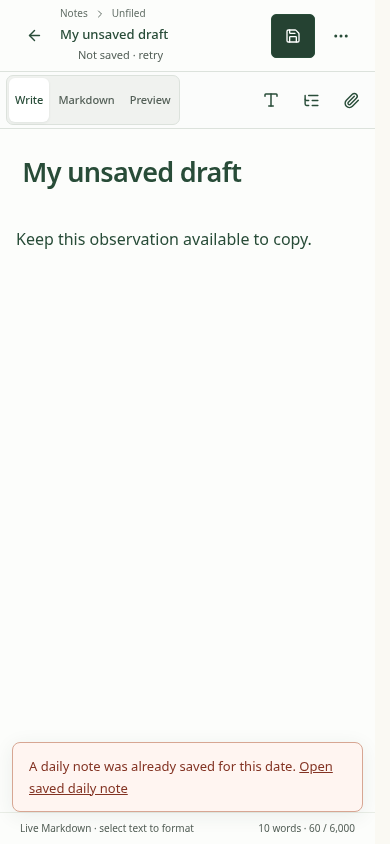
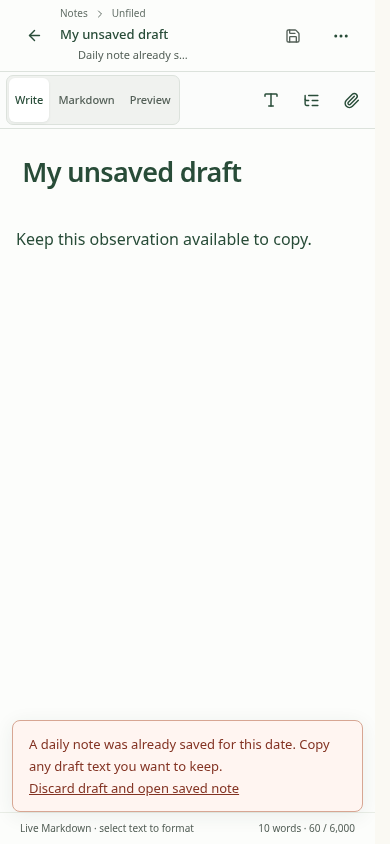
fix(workspace): preserve daily drafts through refresh and replay

diff --git a/packages/website/src/components/dashboard/memory-editor.tsx b/packages/website/src/components/dashboard/memory-editor.tsx
@@ -17,7 +17,7 @@ import {
   Save,
   Download,
 } from "lucide-react";
-import Link from "next/link";
+import { useRouter } from "next/navigation";
 import type { DailyNote, Memory } from "@lib/shared/contracts";
 import { sourceEditsBetween } from "@lib/shared/document-edits";
 import {
@@ -141,10 +141,13 @@ export function MemoryEditor({
         ?.focus({ preventScroll: true });
   }, []);
   const [preview, setPreview] = useState(initialPreview);
-  const [dailyConflictId, setDailyConflictId] = useState<string>();
+  const router = useRouter();
   const api = useWorkspaceApi();
   const [draft] = useState(() =>
     draftKey ? drafts?.get(draftKey) : undefined,
+  );
+  const [dailyConflictId, setDailyConflictId] = useState(
+    draft?.dailyConflictId,
   );
   const [content, setContent] = useState(
     draft?.content ?? memory?.content ?? initialContent,
@@ -279,6 +282,7 @@ export function MemoryEditor({
         saving,
         submitted: submitted.current,
         error,
+        dailyConflictId,
       });
     else drafts.delete(key);
   }, [
@@ -294,6 +298,7 @@ export function MemoryEditor({
     projectId,
     saving,
     error,
+    dailyConflictId,
   ]);
   const settleSave = useEffectEvent(
     async (
@@ -384,8 +389,7 @@ export function MemoryEditor({
       } catch (e) {
         const retained = draftKey ? drafts?.get(draftKey) : undefined;
         if (retained?.saving === request) retained.error = errorMessage(e);
-        if (!active()) return;
-        setError(errorMessage(e));
+        if (active()) setError(errorMessage(e));
         if (
           e instanceof DashboardApiError &&
           e.code === "daily_note_exists" &&
@@ -395,12 +399,17 @@ export function MemoryEditor({
             const existing = await api<DailyNote>(
               `/memories/daily/${dailyDate}`,
             );
-            if (active() && existing.state === "saved")
-              setDailyConflictId(existing.id);
+            if (existing.state === "saved") {
+              const current = draftKey ? drafts?.get(draftKey) : undefined;
+              if (current?.saving === request)
+                current.dailyConflictId = existing.id;
+              if (active()) setDailyConflictId(existing.id);
+            }
           } catch {
             // The original draft and error remain visible if lookup fails.
           }
         }
+        if (!active()) return;
         if (
           e instanceof DashboardApiError &&
           e.code === "version_conflict" &&
@@ -454,6 +463,7 @@ export function MemoryEditor({
   }, [dirty]);
   const saveDisabled =
     mediaBusy ||
+    !!dailyConflictId ||
     busy ||
     !!latest ||
     !content.trim() ||
@@ -465,7 +475,7 @@ export function MemoryEditor({
   function persist(automatic = false) {
     if (!editSession.current || !automatic)
       editSession.current = crypto.randomUUID();
-    if (mediaBusy) return;
+    if (mediaBusy || dailyConflictId) return;
     // Retrying an uncertain save must use its original payload even if newer
     // local edits are empty or exceed the save limit.
     if (saveDisabled && !(pending.current?.input && !busy && !latest)) return;
@@ -597,15 +607,17 @@ export function MemoryEditor({
         disabled: saveDisabled,
         disabledReason: busy
           ? "Saving…"
-          : latest
-            ? "Review the newer version first"
-            : !content.trim()
-              ? "Write something first"
-              : content.length > 6000
-                ? "Over the save limit"
-                : !dirty
-                  ? "All changes saved"
-                  : undefined,
+          : dailyConflictId
+            ? "This date already has a saved note"
+            : latest
+              ? "Review the newer version first"
+              : !content.trim()
+                ? "Write something first"
+                : content.length > 6000
+                  ? "Over the save limit"
+                  : !dirty
+                    ? "All changes saved"
+                    : undefined,
       },
       {
         ...commandDefinitions["note-focus"],
@@ -622,19 +634,21 @@ export function MemoryEditor({
   );
   const saveStatus = busy
     ? "Saving…"
-    : dirty
-      ? error
-        ? "Not saved · retry"
-        : content.length > 6000
-          ? "Over save limit"
-          : !content.trim()
-            ? "Empty draft"
-            : autoSave
-              ? "Waiting to save…"
-              : "Unsaved changes"
-      : base
-        ? `Saved${base.status === "archived" ? " · Archived" : ""}`
-        : "Start a note";
+    : dailyConflictId
+      ? "Daily note already saved"
+      : dirty
+        ? error
+          ? "Not saved · retry"
+          : content.length > 6000
+            ? "Over save limit"
+            : !content.trim()
+              ? "Empty draft"
+              : autoSave
+                ? "Waiting to save…"
+                : "Unsaved changes"
+        : base
+          ? `Saved${base.status === "archived" ? " · Archived" : ""}`
+          : "Start a note";
   const saveButton = (
     <Button
       type="submit"
@@ -905,7 +919,7 @@ export function MemoryEditor({
               onChange={(value, immediate) => {
                 setContent(value);
                 if (immediate) saveImmediately.current = true;
-                if (!latest) setError("");
+                if (!latest && !dailyConflictId) setError("");
               }}
               disabled={mediaBusy || (busy && !autoSave)}
               fullPage={pageView}
@@ -1034,12 +1048,18 @@ export function MemoryEditor({
               {dailyConflictId && (
                 <>
                   {" "}
-                  <Link
+                  <button
+                    type="button"
                     className="underline"
-                    href={`/app/memories/${encodeURIComponent(dailyConflictId)}?mode=edit&from=journal`}
+                    onClick={() => {
+                      if (draftKey) drafts?.delete(draftKey);
+                      router.push(
+                        `/app/memories/${encodeURIComponent(dailyConflictId)}?mode=edit&from=journal`,
+                      );
+                    }}
                   >
-                    Open saved daily note
-                  </Link>
+                    Discard draft and open saved note
+                  </button>
                 </>
               )}
             </p>

diff --git a/packages/website/tests/daily-note.spec.ts b/packages/website/tests/daily-note.spec.ts
@@ -20,6 +20,87 @@ const fromNotes = async (page: Page) => {
 
 test.use({ timezoneId: "America/Los_Angeles", locale: "en-US" });
 
+test("the workspace refresh cannot replace a conflicting draft", async ({
+  page,
+}) => {
+  await page.clock.install({ time: beforeMidnight });
+  const state = await fixture(page, []);
+  await page.goto(`${base}/app/notes/new?from=journal&date=${day}`);
+  await expect(editor(page)).toBeVisible();
+  state.dailyNotes.set(day, note.id);
+  state.records.set(note.id, note);
+  await editor(page).fill("Text to keep through refresh");
+  await save(page).click();
+  const open = page.getByRole("button", {
+    name: "Discard draft and open saved note",
+  });
+  await expect(open).toBeVisible();
+  const refresh = page.waitForResponse(
+    (r) => r.url().includes("/api/grove/projects") && r.ok(),
+  );
+  await page.clock.fastForward(61_000);
+  await refresh;
+  await expect(open).toBeVisible();
+  expect(
+    state.calls.filter(
+      ({ path, body }) => path === `/memories/daily/${day}` && !body,
+    ),
+  ).toHaveLength(2);
+  await expect(editor(page)).toHaveText("Text to keep through refresh");
+  await page
+    .getByRole("navigation", { name: "Workspace" })
+    .getByRole("link", { name: "Notes", exact: true })
+    .click();
+  // The workspace refresh crossed midnight: revisit the original date.
+  await page.goBack();
+  await expect(editor(page)).toHaveText("Text to keep through refresh");
+  await expect(open).toBeVisible();
+});
+
+test("reopening an interrupted first save recovers later typing and replays its receipt", async ({
+  page,
+}) => {
+  await page.clock.setFixedTime(beforeMidnight);
+  const state = await fixture(page, []);
+  const attempts: unknown[] = [];
+  const committed = { ...note, content: "First draft", projectId: null };
+  await page.route(`**/api/grove/memories/daily/${day}`, async (route) => {
+    if (route.request().method() !== "POST") return route.fallback();
+    attempts.push(route.request().postDataJSON());
+    if (attempts.length === 1) {
+      state.dailyNotes.set(day, committed.id);
+      state.records.set(committed.id, committed);
+      return route.abort();
+    }
+    return route.fulfill({ json: { success: true, data: committed } });
+  });
+  await page.goto(`${base}/app`);
+  await fromNotes(page);
+  await editor(page).fill(committed.content);
+  await save(page).click();
+  await expect(page.locator(".note-save-error")).toBeVisible();
+  await editor(page).fill("Later typing after the interrupted save");
+  await page
+    .getByRole("navigation", { name: "Workspace" })
+    .getByRole("link", { name: "Notes", exact: true })
+    .click();
+  await fromNotes(page);
+  await expect(editor(page)).toHaveText(
+    "Later typing after the interrupted save",
+  );
+  await save(page).click();
+  await expect(page).toHaveURL(
+    `${base}/app/memories/${note.id}?mode=edit&from=journal`,
+  );
+  await expect(page.locator(".note-save-status")).toHaveText("Saved");
+  expect(attempts).toHaveLength(2);
+  expect(attempts[1]).toEqual(attempts[0]);
+  expect(state.records.get(note.id)?.content).toBe(
+    "Later typing after the interrupted save",
+  );
+  expect(state.records.size).toBe(1);
+});
+
 test("a local date is pinned through midnight, then the notebook and Notes reopen the saved id", async ({
   page,
 }, info) => {
@@ -103,7 +184,9 @@ test("a losing first save holds its draft and opens the winner only on request",
   state.dailyNotes.set(day, winner.id);
   state.records.set(winner.id, winner);
   await save(page).click();
-  const open = page.getByRole("link", { name: "Open saved daily note" });
+  const open = page.getByRole("button", {
+    name: "Discard draft and open saved note",
+  });
   await expect(open).toBeVisible();
   await expect(editor(page)).toContainText("available to copy");
   expect(state.records.size).toBe(1);
@@ -122,6 +205,11 @@ test("a losing first save holds its draft and opens the winner only on request",
     contentType: "image/png",
   });
   await open.click();
+  await expect(page).toHaveURL(
+    `${base}/app/memories/${winner.id}?mode=edit&from=journal`,
+  );
+  await expect(editor(page)).toContainText("Saved from another device.");
+  await page.goBack();
   await expect(page).toHaveURL(
     `${base}/app/memories/${winner.id}?mode=edit&from=journal`,
   );

diff --git a/packages/website/src/components/dashboard/note-document.tsx b/packages/website/src/components/dashboard/note-document.tsx
@@ -8,6 +8,7 @@ import { localDateSchema, type DailyNote } from "@lib/shared/contracts";
 import { errorMessage } from "@/lib/dashboard-api";
 import { RecoveryState } from "@/components/recovery-state";
 import { MemoryInspector } from "./memory-inspector";
+import { useNoteDrafts } from "./note-drafts";
 import { useNotebooks } from "./notebooks-provider";
 import { LoadError } from "./load-error";
 import { DocumentSkeleton } from "./workspace-opening";
@@ -36,6 +37,7 @@ export function NoteDocument({ children }: { children: ReactNode }) {
   const query = useSearchParams();
   const router = useRouter();
   const api = useWorkspaceApi();
+  const drafts = useNoteDrafts();
   const { projects, loading, error, reload } = useNotebooks();
   const creating = path === "/app/notes/new";
   const notebook = query.get("notebook") || undefined;
@@ -67,15 +69,19 @@ export function NoteDocument({ children }: { children: ReactNode }) {
     params.set("date", localCalendarDate());
     router.replace(`/app/notes/new?${params}`, { scroll: false });
   }, [daily, day, notebook, router]);
-  const lookup = useQuery({
+  const lookup = useQuery<DailyNote>({
     queryKey: ["daily-note-opening", day, session.key],
     queryFn: ({ signal }) =>
       api<DailyNote>(`/memories/daily/${day}`, undefined, undefined, signal),
     enabled: !!day,
+    // Reattach the editor to its retained values and original save promise or
+    // operation ID before consulting a server that may already have committed.
+    initialData: () =>
+      day && drafts?.has(route) ? { state: "empty" } : undefined,
     gcTime: 0,
     // The result is a snapshot for this opening. Never replace a mounted draft
     // with another tab's save; its create operation will report the conflict.
-    staleTime: Infinity,
+    staleTime: "static",
     retry: false,
   });
   const savedId = lookup.data?.state === "saved" ? lookup.data.id : undefined;

diff --git a/lib/memory/src/index.ts b/lib/memory/src/index.ts
@@ -1034,7 +1034,7 @@ export class MemoryService {
               if (daily.state === "saved")
                 throw new GroveError(
                   "daily_note_exists",
-                  "A daily note was already saved for this date. Copy any text you want to keep, then open the saved note from Today’s note again.",
+                  "A daily note was already saved for this date. Copy any draft text you want to keep.",
                   409,
                 );
               if (daily.state === "deleted")

diff --git a/tests/src/daily-note.test.ts b/tests/src/daily-note.test.ts
@@ -156,6 +156,10 @@ test("daily identity survives filing, renaming, archive and restore; deletion ne
     }),
   );
   assert.equal(archived.status, "archived");
+  const replay = await data<Memory>(await call(path, first));
+  assert.equal(replay.id, saved.id);
+  assert.equal(replay.version, archived.version);
+  assert.equal(replay.status, "archived");
   assert.deepEqual(await data(await call(path)), {
     state: "saved",
     id: saved.id,

diff --git a/packages/website/tests/fixtures/workspace-fixture.ts b/packages/website/tests/fixtures/workspace-fixture.ts
@@ -523,7 +523,7 @@ export async function fixture(
             error: {
               code: exists ? "daily_note_exists" : "daily_note_deleted",
               message: exists
-                ? "A daily note was already saved for this date."
+                ? "A daily note was already saved for this date. Copy any draft text you want to keep."
                 : "The daily note for this date was deleted.",
             },
           },

diff --git a/packages/website/src/components/dashboard/note-drafts.tsx b/packages/website/src/components/dashboard/note-drafts.tsx
@@ -28,6 +28,7 @@ export type NoteDraft = NoteValues & {
   saving?: Promise<Memory>;
   submitted?: NoteValues;
   error?: string;
+  dailyConflictId?: string;
 };
 
 class NoteDraftStore extends Map<string, NoteDraft> {

diff --git a/documentation/workspace.md b/documentation/workspace.md
@@ -184,6 +184,11 @@ does not free the date for a replacement. A draft stays on the date it was opene
 for, even past midnight; open **Today’s note** again for the new day. Devices in
 different time zones can show different dates at the same instant.
 
+If the first save is interrupted, returning to the date in the same workspace
+session resumes the draft and retries the original save. If another device saved
+first, the local draft stays available through navigation and background refresh.
+Copy any text you want to keep before choosing **Discard draft and open saved note**.
+
 **Filters → Sort notes → Date written** groups ordinary notes by when they were
 created; there is no separate journal store. The legacy `/app/journal` URL still
 opens this sorted view.

diff --git a/documentation/design/screenshots/simple-notes/README.md b/documentation/design/screenshots/simple-notes/README.md
@@ -27,7 +27,7 @@ daily-note fix and production CSS:
 - [Reopen from Notes](reopened-daily-note.png), 1280 × 720: the same saved draft
   opens in its original notebook after being given a different title.
 - [Concurrent first save](daily-note-conflict.png), 390 × 844: the losing draft
-  stays editable and offers a link to the saved note without replacing its text.
+  stays editable until the writer chooses **Discard draft and open saved note**.
 
 These fixtures simulate API responses; they do not qualify live Clerk or a
 physical device. Disposable PostgreSQL tests separately exercise persistence.
